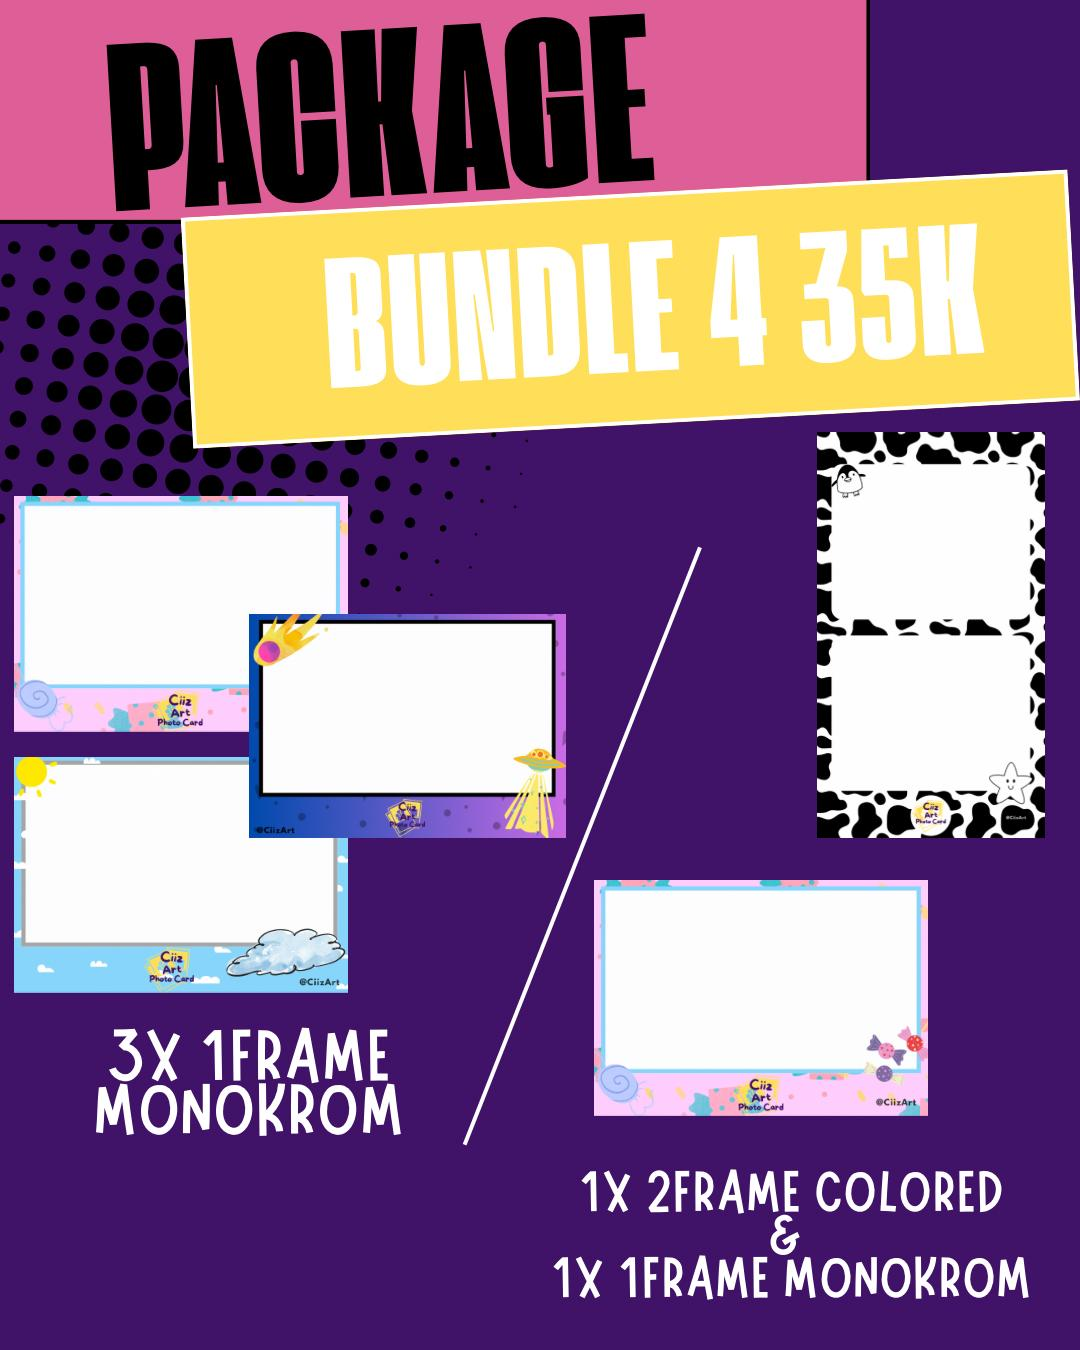
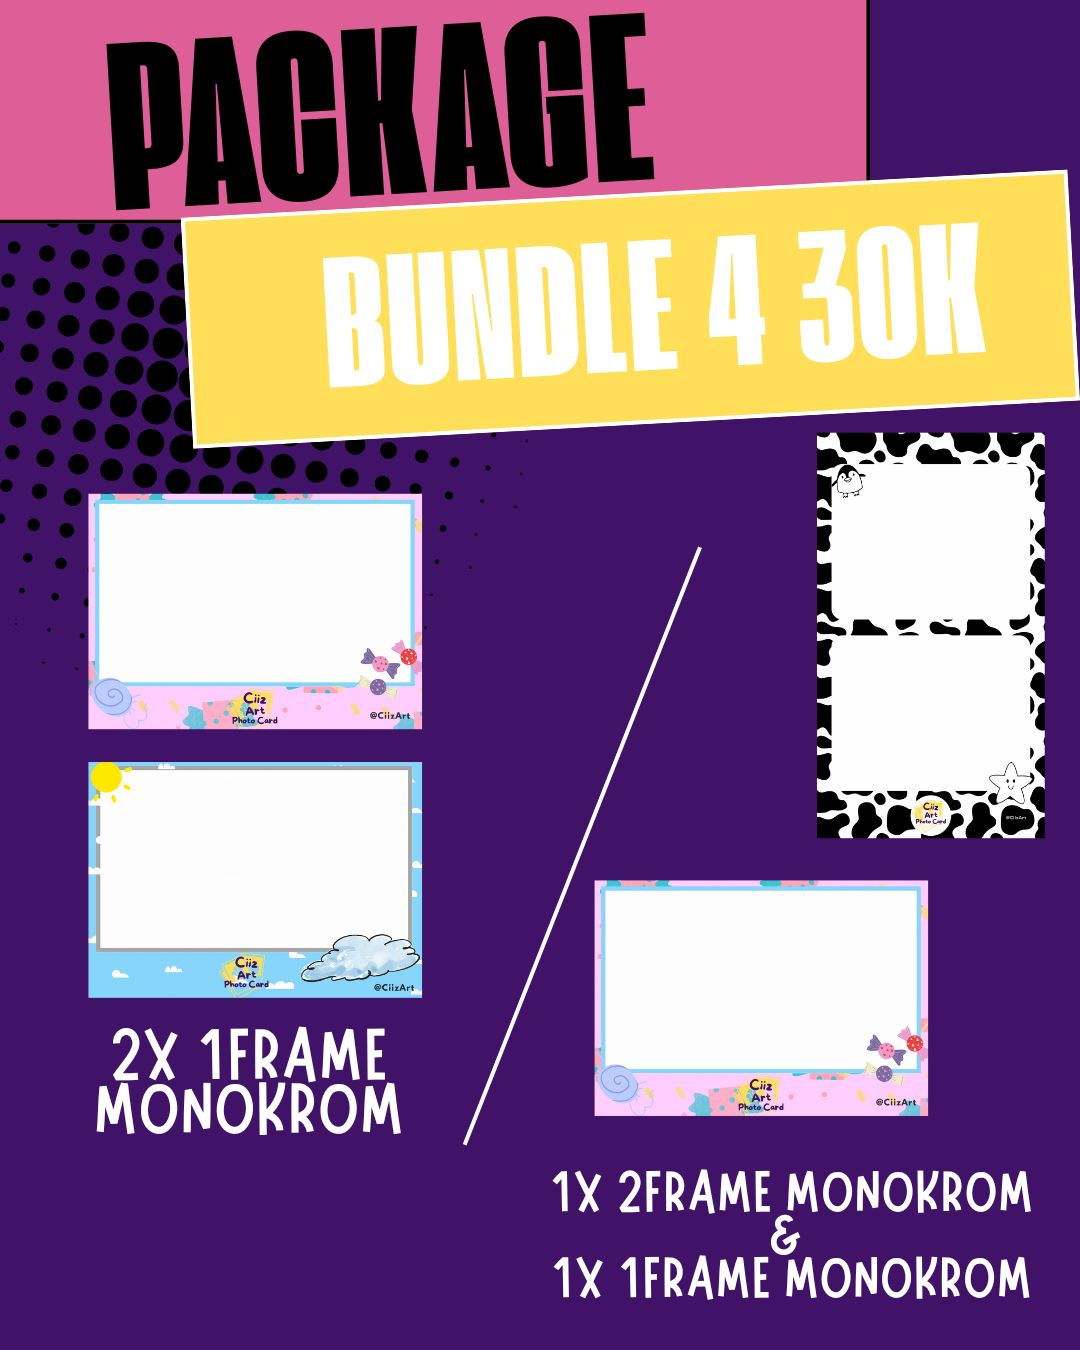
update data

diff --git a/index.html b/index.html
@@ -80,8 +80,9 @@
             <!-- 1 Bundle Art -->
             <div class="bg-white rounded-xl shadow-lg p-8 flex flex-col items-center border-t-4 border-indigo-500 transform hover:scale-105 transition-transform duration-300">
                 <img src="img/bundle/bundle 1.jpg" alt="Bundle 1" class="rounded-xl mb-4 w-full h-50 object-cover">
+                <div class="absolute top-10 right-10 bg-orange-600 text-white text-md font-bold px-3 py-1 rounded-full">Terlaris</div>
                 <h3 class="text-xl font-bold text-indigo-600 mb-4">Package Bundle 1</h3>
-                <p class="text-md font-extrabold text-gray-900 mb-6">Rp 50.000</p>
+                <p class="text-md font-extrabold text-gray-900 mb-6">Rp 50.000 <span class="text-gray-300 line-through italic">Rp. 58.000</span></p>
                 <ul class="text-gray-700 text-sm space-y-3 mb-8 text-left w-full">
                     <li class="flex items-center"><svg class="w-5 h-5 text-green-500 mr-2" fill="currentColor" viewBox="0 0 20 20"><path fill-rule="evenodd" d="M10 18a8 8 0 100-16 8 8 0 000 16zm3.707-9.293a1 1 0 00-1.414-1.414L9 10.586 7.707 9.293a1 1 0 00-1.414 1.414l2 2a1 1 0 001.414 0l4-4z" clip-rule="evenodd"></path></svg>Free Keychain</li>
                     <li class="flex items-center"><svg class="w-5 h-5 text-green-500 mr-2" fill="currentColor" viewBox="0 0 20 20"><path fill-rule="evenodd" d="M10 18a8 8 0 100-16 8 8 0 000 16zm3.707-9.293a1 1 0 00-1.414-1.414L9 10.586 7.707 9.293a1 1 0 00-1.414 1.414l2 2a1 1 0 001.414 0l4-4z" clip-rule="evenodd"></path></svg>1 pcs 1F Monokrom</li>
@@ -95,38 +96,36 @@
             <div class="bg-white rounded-xl shadow-lg p-8 flex flex-col items-center border-t-4 border-pink-500 transform hover:scale-105 transition-transform duration-300">
                 <img src="img/bundle/bundle 2.jpg" alt="Bundle 2" class="rounded-xl mb-4 w-full h-50 object-cover">
                 <h3 class="text-xl font-bold text-indigo-600 mb-4">Package Bundle 2</h3>
-                <p class="text-md font-extrabold text-gray-900 mb-6">Rp 40.000</p>
+                <p class="text-md font-extrabold text-gray-900 mb-6">Rp 40.000 <span class="text-gray-300 line-through italic">Rp. 52.000</span></p>
                 <ul class="text-gray-700 text-md space-y-3 mb-8 text-left w-full">
                     <li class="flex items-center"><svg class="w-5 h-5 text-green-500 mr-2" fill="currentColor" viewBox="0 0 20 20"><path fill-rule="evenodd" d="M10 18a8 8 0 100-16 8 8 0 000 16zm3.707-9.293a1 1 0 00-1.414-1.414L9 10.586 7.707 9.293a1 1 0 00-1.414 1.414l2 2a1 1 0 001.414 0l4-4z" clip-rule="evenodd"></path></svg>Keychain + Rp 5.000</li>
                     <li class="flex items-center"><svg class="w-5 h-5 text-green-500 mr-2" fill="currentColor" viewBox="0 0 20 20"><path fill-rule="evenodd" d="M10 18a8 8 0 100-16 8 8 0 000 16zm3.707-9.293a1 1 0 00-1.414-1.414L9 10.586 7.707 9.293a1 1 0 00-1.414 1.414l2 2a1 1 0 001.414 0l4-4z" clip-rule="evenodd"></path></svg>Full Colored + Rp 5.000</li>
-                    <li class="flex items-center"><svg class="w-5 h-5 text-green-500 mr-2" fill="currentColor" viewBox="0 0 20 20"><path fill-rule="evenodd" d="M10 18a8 8 0 100-16 8 8 0 000 16zm3.707-9.293a1 1 0 00-1.414-1.414L9 10.586 7.707 9.293a1 1 0 00-1.414 1.414l2 2a1 1 0 001.414 0l4-4z" clip-rule="evenodd"></path></svg>2 pcs 3F Monokrom</li>
+                    <li class="flex items-center"><svg class="w-5 h-5 text-green-500 mr-2" fill="currentColor" viewBox="0 0 20 20"><path fill-rule="evenodd" d="M10 18a8 8 0 100-16 8 8 0 000 16zm3.707-9.293a1 1 0 00-1.414-1.414L9 10.586 7.707 9.293a1 1 0 00-1.414 1.414l2 2a1 1 0 001.414 0l4-4z" clip-rule="evenodd"></path></svg>2 pcs 3F Colored / 1 pcs 2F colored & 1 pcs 1F colored</li>
                 </ul>
                 <a href="https://wa.me/6287761935847?text=Halo%20CiizArt%2C%20saya%20tertarik%20dengan%20Bundle%20Package%202%20nya!%20Bisakah%20Anda%20memberikan%20informasi%20lebih%20lanjut%3F"
                    target="_blank" class="bg-indigo-600 text-white font-bold text-sm py-3 px-4 rounded-full shadow-md hover:bg-indigo-700 transition-colors duration-300">Pesan Sekarang</a>
             </div>
             <!-- 3 Bundle Art -->
             <div class="bg-white rounded-xl shadow-lg p-8 flex flex-col items-center border-t-4 border-purple-500 transform hover:scale-105 transition-transform duration-300">
-                <img src="img/bundle/bundle 3.jpg" alt="Bundle 3" class="rounded-xl mb-4 w-full h-50 object-cover">
+                <img src="img/bundle/bundle 3.png" alt="Bundle 3" class="rounded-xl mb-4 w-full h-50 object-cover">
                 <h3 class="text-xl font-bold text-indigo-600 mb-4">Package Bundle 3</h3>
-                <p class="text-md font-extrabold text-gray-900 mb-6">Rp 40.000</p>
+                <p class="text-md font-extrabold text-gray-900 mb-6">Rp 42.000 <span class="text-gray-300 line-through italic">Rp. 55.000</span></p>
                 <ul class="text-gray-700 text-md space-y-3 mb-8 text-left w-full">
-                    <li class="flex items-center"><svg class="w-5 h-5 text-green-500 mr-2" fill="currentColor" viewBox="0 0 20 20"><path fill-rule="evenodd" d="M10 18a8 8 0 100-16 8 8 0 000 16zm3.707-9.293a1 1 0 00-1.414-1.414L9 10.586 7.707 9.293a1 1 0 00-1.414 1.414l2 2a1 1 0 001.414 0l4-4z" clip-rule="evenodd"></path></svg>Keychain + Rp 5.000</li>
-                    <li class="flex items-center"><svg class="w-5 h-5 text-green-500 mr-2" fill="currentColor" viewBox="0 0 20 20"><path fill-rule="evenodd" d="M10 18a8 8 0 100-16 8 8 0 000 16zm3.707-9.293a1 1 0 00-1.414-1.414L9 10.586 7.707 9.293a1 1 0 00-1.414 1.414l2 2a1 1 0 001.414 0l4-4z" clip-rule="evenodd"></path></svg>Full Colored + Rp 5.000</li>
-                    <li class="flex items-center"><svg class="w-5 h-5 text-green-500 mr-2" fill="currentColor" viewBox="0 0 20 20"><path fill-rule="evenodd" d="M10 18a8 8 0 100-16 8 8 0 000 16zm3.707-9.293a1 1 0 00-1.414-1.414L9 10.586 7.707 9.293a1 1 0 00-1.414 1.414l2 2a1 1 0 001.414 0l4-4z" clip-rule="evenodd"></path></svg>1 pcs 1F Full Colored</li>
-                    <li class="flex items-center"><svg class="w-5 h-5 text-green-500 mr-2" fill="currentColor" viewBox="0 0 20 20"><path fill-rule="evenodd" d="M10 18a8 8 0 100-16 8 8 0 000 16zm3.707-9.293a1 1 0 00-1.414-1.414L9 10.586 7.707 9.293a1 1 0 00-1.414 1.414l2 2a1 1 0 001.414 0l4-4z" clip-rule="evenodd"></path></svg>1 pcs 2F Monokrom</li>
+                    <li class="flex items-center"><svg class="w-5 h-5 text-green-500 mr-2" fill="currentColor" viewBox="0 0 20 20"><path fill-rule="evenodd" d="M10 18a8 8 0 100-16 8 8 0 000 16zm3.707-9.293a1 1 0 00-1.414-1.414L9 10.586 7.707 9.293a1 1 0 00-1.414 1.414l2 2a1 1 0 001.414 0l4-4z" clip-rule="evenodd"></path></svg>Free Keychain</li>
+                    <li class="flex items-center"><svg class="w-5 h-5 text-green-500 mr-2" fill="currentColor" viewBox="0 0 20 20"><path fill-rule="evenodd" d="M10 18a8 8 0 100-16 8 8 0 000 16zm3.707-9.293a1 1 0 00-1.414-1.414L9 10.586 7.707 9.293a1 1 0 00-1.414 1.414l2 2a1 1 0 001.414 0l4-4z" clip-rule="evenodd"></path></svg>1 pcs 3F Full Colored</li>
+                    <li class="flex items-center"><svg class="w-5 h-5 text-green-500 mr-2" fill="currentColor" viewBox="0 0 20 20"><path fill-rule="evenodd" d="M10 18a8 8 0 100-16 8 8 0 000 16zm3.707-9.293a1 1 0 00-1.414-1.414L9 10.586 7.707 9.293a1 1 0 00-1.414 1.414l2 2a1 1 0 001.414 0l4-4z" clip-rule="evenodd"></path></svg>1 pcs 3F Monokrom</li>
                 </ul>
                 <a href="https://wa.me/6287761935847?text=Halo%20CiizArt%2C%20saya%20tertarik%20dengan%20Bundle%20Package%203%20nya!%20Bisakah%20Anda%20memberikan%20informasi%20lebih%20lanjut%3F"
                    target="_blank" class="bg-indigo-600 text-white font-bold text-sm py-3 px-4 rounded-full shadow-md hover:bg-indigo-700 transition-colors duration-300">Pesan Sekarang</a>
             </div>
-            <!-- 4 Frame Art -->
+            <!-- 4 Bundle Art -->
             <div class="bg-white rounded-xl shadow-lg p-8 flex flex-col items-center border-t-4 border-indigo-500 transform hover:scale-105 transition-transform duration-300">
                 <img src="img/bundle/bundle 4.jpg" alt="Bundle 4" class="rounded-xl mb-4 w-full h-50 object-cover">
                 <h3 class="text-xl font-bold text-indigo-600 mb-4">Package Bundle 4</h3>
-                <p class="text-md font-extrabold text-gray-900 mb-6">Rp 35.000</p>
+                <p class="text-md font-extrabold text-gray-900 mb-6">Rp 30.000 <span class="text-gray-300 line-through italic">Rp. 45.000</span></p>
                 <ul class="text-gray-700 text-md space-y-3 mb-8 text-left w-full">
-                    <li class="flex items-center"><svg class="w-5 h-5 text-green-500 mr-2" fill="currentColor" viewBox="0 0 20 20"><path fill-rule="evenodd" d="M10 18a8 8 0 100-16 8 8 0 000 16zm3.707-9.293a1 1 0 00-1.414-1.414L9 10.586 7.707 9.293a1 1 0 00-1.414 1.414l2 2a1 1 0 001.414 0l4-4z" clip-rule="evenodd"></path></svg>Keychain + Rp 5.000</li>
-                    <li class="flex items-center"><svg class="w-5 h-5 text-green-500 mr-2" fill="currentColor" viewBox="0 0 20 20"><path fill-rule="evenodd" d="M10 18a8 8 0 100-16 8 8 0 000 16zm3.707-9.293a1 1 0 00-1.414-1.414L9 10.586 7.707 9.293a1 1 0 00-1.414 1.414l2 2a1 1 0 001.414 0l4-4z" clip-rule="evenodd"></path></svg>Full Colored + Rp 5.000</li>
-                    <li class="flex items-center"><svg class="w-5 h-5 text-green-500 mr-2" fill="currentColor" viewBox="0 0 20 20"><path fill-rule="evenodd" d="M10 18a8 8 0 100-16 8 8 0 000 16zm3.707-9.293a1 1 0 00-1.414-1.414L9 10.586 7.707 9.293a1 1 0 00-1.414 1.414l2 2a1 1 0 001.414 0l4-4z" clip-rule="evenodd"></path></svg>3 pcs 1F Monokrom</li>
+                    <li class="flex items-center"><svg class="w-5 h-5 text-green-500 mr-2" fill="currentColor" viewBox="0 0 20 20"><path fill-rule="evenodd" d="M10 18a8 8 0 100-16 8 8 0 000 16zm3.707-9.293a1 1 0 00-1.414-1.414L9 10.586 7.707 9.293a1 1 0 00-1.414 1.414l2 2a1 1 0 001.414 0l4-4z" clip-rule="evenodd"></path></svg>Free Keychain</li>
+                    <li class="flex items-center"><svg class="w-5 h-5 text-green-500 mr-2" fill="currentColor" viewBox="0 0 20 20"><path fill-rule="evenodd" d="M10 18a8 8 0 100-16 8 8 0 000 16zm3.707-9.293a1 1 0 00-1.414-1.414L9 10.586 7.707 9.293a1 1 0 00-1.414 1.414l2 2a1 1 0 001.414 0l4-4z" clip-rule="evenodd"></path></svg>2 pcs 1F Monokrom / 1 pcs 2F monokrom & 1 pcs 1F monokrom</li>
                 </ul>
                 <a href="https://wa.me/6287761935847?text=Halo%20CiizArt%2C%20saya%20tertarik%20dengan%20Bundle%20Package%204%20nya!%20Bisakah%20Anda%20memberikan%20informasi%20lebih%20lanjut%3F"
                    target="_blank" class="bg-indigo-600 text-white font-bold text-sm py-3 px-4 rounded-full shadow-md hover:bg-indigo-700 transition-colors duration-300">Pesan Sekarang</a>
@@ -151,6 +150,7 @@
                             <img src="img/frame 1/1 Strip 2.png" alt="Design Frame 2" class="rounded-xl">
                             <img src="img/frame 1/1 Strip 3.png" alt="Design Frame 3" class="rounded-xl">
                         </div>
+                         <div class="absolute top-1 right-1 bg-gray-600 text-white text-md font-bold px-3 py-1 rounded-full">Terlaris</div>
                         <button class="carousel-button prev" id="pricing-basic-prev" aria-label="Previous image">
                             <svg class="w-5 h-5" fill="none" stroke="currentColor" viewBox="0 0 24 24"><path stroke-linecap="round" stroke-linejoin="round" stroke-width="2" d="M15 19l-7-7 7-7"></path></svg>
                         </button>
@@ -164,7 +164,7 @@
                         <li class="flex items-center"><svg class="w-5 h-5 text-green-500 mr-2" fill="currentColor" viewBox="0 0 20 20"><path fill-rule="evenodd" d="M10 18a8 8 0 100-16 8 8 0 000 16zm3.707-9.293a1 1 0 00-1.414-1.414L9 10.586 7.707 9.293a1 1 0 00-1.414 1.414l2 2a1 1 0 001.414 0l4-4z" clip-rule="evenodd"></path></svg>Monokrom</li>
                         <li class="flex items-center"><svg class="w-5 h-5 text-green-500 mr-2" fill="currentColor" viewBox="0 0 20 20"><path fill-rule="evenodd" d="M10 18a8 8 0 100-16 8 8 0 000 16zm3.707-9.293a1 1 0 00-1.414-1.414L9 10.586 7.707 9.293a1 1 0 00-1.414 1.414l2 2a1 1 0 001.414 0l4-4z" clip-rule="evenodd"></path></svg>1 - 3 Orang/Objek</li>
                         <li class="flex items-center"><svg class="w-5 h-5 text-green-500 mr-2" fill="currentColor" viewBox="0 0 20 20"><path fill-rule="evenodd" d="M10 18a8 8 0 100-16 8 8 0 000 16zm3.707-9.293a1 1 0 00-1.414-1.414L9 10.586 7.707 9.293a1 1 0 00-1.414 1.414l2 2a1 1 0 001.414 0l4-4z" clip-rule="evenodd"></path></svg>Include Keychain</li>
-                        <li class="flex items-center"><svg class="w-5 h-5 text-green-500 mr-2" fill="currentColor" viewBox="0 0 20 20"><path fill-rule="evenodd" d="M10 18a8 8 0 100-16 8 8 0 000 16zm3.707-9.293a1 1 0 00-1.414-1.414L9 10.586 7.707 9.293a1 1 0 00-1.414 1.414l2 2a1 1 0 001.414 0l4-4z" clip-rule="evenodd"></path></svg>Full Colour + Rp. 5.000</li>
+                        <li class="flex items-center"><svg class="w-5 h-5 text-green-500 mr-2" fill="currentColor" viewBox="0 0 20 20"><path fill-rule="evenodd" d="M10 18a8 8 0 100-16 8 8 0 000 16zm3.707-9.293a1 1 0 00-1.414-1.414L9 10.586 7.707 9.293a1 1 0 00-1.414 1.414l2 2a1 1 0 001.414 0l4-4z" clip-rule="evenodd"></path></svg>Colored + Rp. 5.000</li>
                     </ul>
                     <a href="https://wa.me/6287761935847?text=Halo%20CiizArt%2C%20saya%20tertarik%20dengan%201%20Frame%20Art%20nya%20!%20Bisakah%20Anda%20memberikan%20informasi%20lebih%20lanjut%3F"
                    target="_blank" class="bg-indigo-600 text-white font-bold py-3 px-4 rounded-full shadow-md hover:bg-indigo-700 transition-colors duration-300">Pesan Sekarang</a>
@@ -177,6 +177,7 @@
                             <img src="img/frame 2/2 Strip 2.png" alt="Design Frame 2" class="rounded-xl">
                             <img src="img/frame 2/2 Strip 3.png" alt="Design Frame 3" class="rounded-xl">
                         </div>
+                        <div class="absolute top-1 right-1 bg-orange-600 text-white text-md font-bold px-3 py-1 rounded-full">Terlaris</div>
                         <button class="carousel-button prev" id="pricing-standard-prev" aria-label="Previous image">
                             <svg class="w-5 h-5" fill="none" stroke="currentColor" viewBox="0 0 24 24"><path stroke-linecap="round" stroke-linejoin="round" stroke-width="2" d="M15 19l-7-7 7-7"></path></svg>
                         </button>
@@ -190,7 +191,7 @@
                         <li class="flex items-center"><svg class="w-5 h-5 text-green-500 mr-2" fill="currentColor" viewBox="0 0 20 20"><path fill-rule="evenodd" d="M10 18a8 8 0 100-16 8 8 0 000 16zm3.707-9.293a1 1 0 00-1.414-1.414L9 10.586 7.707 9.293a1 1 0 00-1.414 1.414l2 2a1 1 0 001.414 0l4-4z" clip-rule="evenodd"></path></svg>Monokrom</li>
                         <li class="flex items-center"><svg class="w-5 h-5 text-green-500 mr-2" fill="currentColor" viewBox="0 0 20 20"><path fill-rule="evenodd" d="M10 18a8 8 0 100-16 8 8 0 000 16zm3.707-9.293a1 1 0 00-1.414-1.414L9 10.586 7.707 9.293a1 1 0 00-1.414 1.414l2 2a1 1 0 001.414 0l4-4z" clip-rule="evenodd"></path></svg>1 - 2 Orang/Objek</li>
                         <li class="flex items-center"><svg class="w-5 h-5 text-green-500 mr-2" fill="currentColor" viewBox="0 0 20 20"><path fill-rule="evenodd" d="M10 18a8 8 0 100-16 8 8 0 000 16zm3.707-9.293a1 1 0 00-1.414-1.414L9 10.586 7.707 9.293a1 1 0 00-1.414 1.414l2 2a1 1 0 001.414 0l4-4z" clip-rule="evenodd"></path></svg>+ Keychain Rp. 5.000</li>
-                        <li class="flex items-center"><svg class="w-5 h-5 text-green-500 mr-2" fill="currentColor" viewBox="0 0 20 20"><path fill-rule="evenodd" d="M10 18a8 8 0 100-16 8 8 0 000 16zm3.707-9.293a1 1 0 00-1.414-1.414L9 10.586 7.707 9.293a1 1 0 00-1.414 1.414l2 2a1 1 0 001.414 0l4-4z" clip-rule="evenodd"></path></svg>Full Colour + Rp. 5.000</li>
+                        <li class="flex items-center"><svg class="w-5 h-5 text-green-500 mr-2" fill="currentColor" viewBox="0 0 20 20"><path fill-rule="evenodd" d="M10 18a8 8 0 100-16 8 8 0 000 16zm3.707-9.293a1 1 0 00-1.414-1.414L9 10.586 7.707 9.293a1 1 0 00-1.414 1.414l2 2a1 1 0 001.414 0l4-4z" clip-rule="evenodd"></path></svg>Colored + Rp. 5.000</li>
                     </ul>
                     <a href="https://wa.me/6287761935847?text=Halo%20CiizArt%2C%20saya%20tertarik%20dengan%202%20Frame%20Art%20nya%20!%20Bisakah%20Anda%20memberikan%20informasi%20lebih%20lanjut%3F"
                    target="_blank" class="bg-purple-600 text-white font-bold py-3 px-4 rounded-full shadow-md hover:bg-indigo-700 transition-colors duration-300">Pesan Sekarang</a>
@@ -216,7 +217,7 @@
                         <li class="flex items-center"><svg class="w-5 h-5 text-green-500 mr-2" fill="currentColor" viewBox="0 0 20 20"><path fill-rule="evenodd" d="M10 18a8 8 0 100-16 8 8 0 000 16zm3.707-9.293a1 1 0 00-1.414-1.414L9 10.586 7.707 9.293a1 1 0 00-1.414 1.414l2 2a1 1 0 001.414 0l4-4z" clip-rule="evenodd"></path></svg>Monokrom</li>
                         <li class="flex items-center"><svg class="w-5 h-5 text-green-500 mr-2" fill="currentColor" viewBox="0 0 20 20"><path fill-rule="evenodd" d="M10 18a8 8 0 100-16 8 8 0 000 16zm3.707-9.293a1 1 0 00-1.414-1.414L9 10.586 7.707 9.293a1 1 0 00-1.414 1.414l2 2a1 1 0 001.414 0l4-4z" clip-rule="evenodd"></path></svg>1 - 2 Orang/Objek</li>
                         <li class="flex items-center"><svg class="w-5 h-5 text-green-500 mr-2" fill="currentColor" viewBox="0 0 20 20"><path fill-rule="evenodd" d="M10 18a8 8 0 100-16 8 8 0 000 16zm3.707-9.293a1 1 0 00-1.414-1.414L9 10.586 7.707 9.293a1 1 0 00-1.414 1.414l2 2a1 1 0 001.414 0l4-4z" clip-rule="evenodd"></path></svg>+ Keychain Rp. 5.000</li>
-                        <li class="flex items-center"><svg class="w-5 h-5 text-green-500 mr-2" fill="currentColor" viewBox="0 0 20 20"><path fill-rule="evenodd" d="M10 18a8 8 0 100-16 8 8 0 000 16zm3.707-9.293a1 1 0 00-1.414-1.414L9 10.586 7.707 9.293a1 1 0 00-1.414 1.414l2 2a1 1 0 001.414 0l4-4z" clip-rule="evenodd"></path></svg>Full Colour + Rp. 2.000</li>
+                        <li class="flex items-center"><svg class="w-5 h-5 text-green-500 mr-2" fill="currentColor" viewBox="0 0 20 20"><path fill-rule="evenodd" d="M10 18a8 8 0 100-16 8 8 0 000 16zm3.707-9.293a1 1 0 00-1.414-1.414L9 10.586 7.707 9.293a1 1 0 00-1.414 1.414l2 2a1 1 0 001.414 0l4-4z" clip-rule="evenodd"></path></svg>Colored + Rp. 2.000</li>
                     </ul>
                     <a href="https://wa.me/6287761935847?text=Halo%20CiizArt%2C%20saya%20tertarik%20dengan%203%20Frame%20Art%20nya%20!%20Bisakah%20Anda%20memberikan%20informasi%20lebih%20lanjut%3F"
                    target="_blank" class="bg-pink-600 text-white font-bold py-3 px-4 rounded-full shadow-md hover:bg-indigo-700 transition-colors duration-300">Pesan Sekarang</a>
